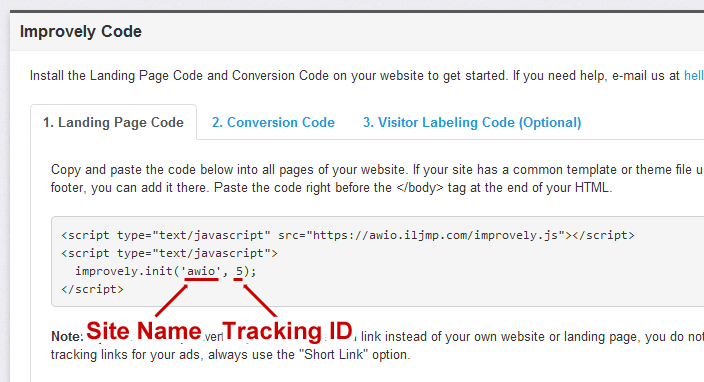
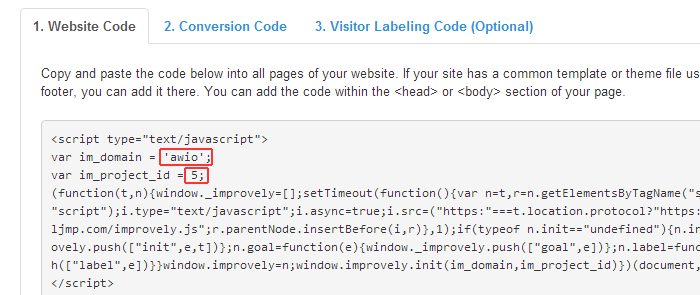
Update
git-svn-id: https://plugins.svn.wordpress.org/improvely-for-woocommerce/trunk@655952 b8457f37-d9ea-0310-8a92-e5e31aec5664

Changed region(s): [[0.06, 0.3966, 1.0, 0.9763], [0.0, 0.0, 1.0, 1.0]]

diff --git a/improvely.php b/improvely.php
@@ -5,20 +5,16 @@
 Plugin Name:  Improvely for WooCommerce
 Plugin URI:   http://www.improvely.com
 Description:  Integrates <a href="http://www.improvely.com">Improvely</a> with your WooCommerce store &mdash; allowing you to identify the exact traffic source of every purchase, split test ads, monitor your PPC ads for fraudulent clicks and more.
-Version:      1.0
+Version:      1.5
 Author:       Improvely
 Author URI:   http://www.improvely.com
 
 **************************************************************************/
 
-if ( in_array( 'woocommerce/woocommerce.php', apply_filters( 'active_plugins', get_option( 'active_plugins' ) ) ) ) {
-
-	add_action('wp_head', 'improvely_init');
-	add_action('woocommerce_thankyou', 'improvely_goal');
-	add_action('admin_menu', 'improvely_pages');
-	add_action('admin_init', 'improvely_admin_init');
-
-}
+add_action('wp_head', 'improvely_init');
+add_action('woocommerce_thankyou', 'improvely_goal');
+add_action('admin_menu', 'improvely_pages');
+add_action('admin_init', 'improvely_admin_init');
 
 function improvely_admin_init() {
 
@@ -42,18 +38,21 @@ function improvely_pages() {
 }
 
 function improvely_warning() {
-	echo "<div id='improvely-warning' class='updated fade'><p><strong>Improvely is almost ready.</strong> ".sprintf('<a href="%1$s">Click here to configure the plugin</a>.', "admin.php?page=improvely-config")."</p></div>";
+	echo "<div id='improvely-warning' class='updated fade'><p><strong>Improvely for WooCommerce is almost ready.</strong> ".sprintf('<a href="%1$s">Click here to configure the plugin</a>.', "admin.php?page=improvely-config")."</p></div>";
 }
 
 function improvely_init() {
 	$improvely_subdomain = get_option('improvely_subdomain');
 	$improvely_id = get_option('improvely_id');
+	if (!empty($improvely_subdomain)) {
 ?>
-<script type="text/javascript" src="https://<?php echo $improvely_subdomain; ?>.iljmp.com/improvely.js"></script>
 <script type="text/javascript">
-  improvely.init('<?php echo $improvely_subdomain; ?>', <?php echo $improvely_id; ?>);
+var im_domain = '<?php echo $improvely_subdomain; ?>';
+var im_project_id = <?php echo $improvely_id; ?>;
+(function(t,n){window._improvely=[];setTimeout(function(){var n=t,r=n.getElementsByTagName("script")[0],i=n.createElement("script");i.type="text/javascript";i.async=true;i.src=("https:"===t.location.protocol?"https:":"http:")+"//"+im_domain+".iljmp.com/improvely.js";r.parentNode.insertBefore(i,r)},1);if(typeof n.init=="undefined"){n.init=function(e,t){window._improvely.push(["init",e,t])};n.goal=function(e){window._improvely.push(["goal",e])};n.label=function(e){window._improvely.push(["label",e])}}window.improvely=n;window.improvely.init(im_domain,im_project_id)})(document,window.improvely||[]);
 </script>
 <?php 
+	}
 }
 
 function improvely_goal($order_id) {
@@ -61,14 +60,12 @@ function improvely_goal($order_id) {
 	$improvely_id = get_option('improvely_id');	
 	$order = new WC_Order($order_id);
 	?>
-<script type="text/javascript" src="https://<?php echo $improvely_subdomain; ?>.iljmp.com/improvely.js"></script>
 <script type="text/javascript">
-  improvely.init('<?php echo $improvely_subdomain; ?>', <?php echo $improvely_id; ?>);
-  improvely.goal({
-    type: 'sale',
-    amount: <?php echo $order->order_total; ?>,
-    reference: '<?php echo $order_id; ?>'
-  });
+improvely.goal({
+  type: 'sale',
+  amount: <?php echo $order->order_total; ?>,
+  reference: '<?php echo $order_id; ?>'
+});
 </script>
 <noscript>
 <img src="https://<?php echo $improvely_subdomain; ?>.iljmp.com/track/conversion?product=<?php echo $improvely_id; ?>&type=sale&amount=<?php echo $order->order_total; ?>&reference=<?php echo $order_id; ?>" width="1" height="1" />
@@ -126,47 +123,81 @@ function improvely_config() {
 
     <h2>Improvely Settings</h2>
 
-    <form method="post" action="admin.php?page=improvely-config">
+    <div style="width: 772px">		
 
-	<?php if (!empty($improvely_subdomain) && !empty($improvely_id)): ?>
-		<div id="message" class="updated fade"><p><strong><?php _e('Your settings have been saved. Improvely is now tracking the visits and purchases on your website.') ?></strong></p></div>
-	<?php else: ?>
-		<div style="font-size: 15px; line-height: 2em; border: 1px solid #ccc; border-radius: 8px; background: #f5f5f5; padding: 10px 20px; width: 706px">
+		<div style="background: #eee">
+			<img src="<?php echo plugins_url( 'banner.png' , __FILE__ ) ?>" alt="Banner" />
 
-			<p>
-				To install this plugin, you need an Improvely account. If you do not already have one, 
-				you can <a href="http://www.improvely.com/">sign up for a free 30-day trial here</a>.
+			<div style="padding: 10px; font-size: 13px; line-height: 1.5em">
+				<?php if (!empty($improvely_subdomain) && !empty($improvely_id)): ?>
+				<b>Your settings have been saved. Improvely is now tracking the visits and purchases on your website.</b>
+				<?php else: ?>
+				This plugin requires an <a href="http://www.improvely.com" target="_blank">Improvely</a>
+				account. If you do not already have an account, you can 
+				<a href="https://www.improvely.com/signup" target="_blank">sign up for a 14-day free trial</a>
+				right now. 
+				<?php endif; ?>
+			</div>
+		</div>
 
-				After creating your project in Improvely, copy the site name and the tracking ID from 
-				your Improvely Code into the boxes below to install this plugin.
-			</p>
-			<p>
-				<img src="<?php echo plugins_url( 'install.png' , __FILE__ ) ?>" alt="" style="border: 1px solid #ccc" />
-			</p>
+		<p>
+			Improvely for WooCommerce will send information about your website visits and purchases
+			to your Improvely account. You can view your reports and set up tracking links for your 
+			ads by clicking on Improvely under your Dashboard menu.
+		</p>
+
+		<div style="background: #eee">
+			<div style="background: #ccc; padding: 10px; font-weight: bold">Configuration</div>
+
+			<form method="post" action="admin.php?page=improvely-config">
+
+		    <table class="form-table" style="margin: 10px">
+		        <tr valign="top">
+		            <th scope="row" style="white-space: nowrap"><label>Improvely Site Name:</label></th>
+		            <td style="width: 100%">
+		                <input type="text" name="improvely_subdomain" value="<?php echo $improvely_subdomain; ?>" />
+		                .improvely.com
+		            </td>
+		        </tr>
+				<tr>
+					<th scope="row" style="white-space: nowrap"><label>Tracking ID:</label></th>
+					<td style="width: 100%">
+						<input type="text" name="improvely_id" value="<?php echo $improvely_id; ?>" />
+		            </td>
+			    </tr>
+			    <tr>
+			    	<td></td>
+			    	<td>
+			    		<input type="submit" value="Save Changes" class="button" />
+		    		</td>
+	    		</tr>
+			</table>
+
+			</form>
 
 		</div>
-	<?php endif; ?>
 
-    <table class="form-table">
-        <tr valign="top">
-            <th scope="row"><label>Improvely Site Name:</label></th>
-            <td>
-                <input type="text" name="improvely_subdomain" value="<?php echo $improvely_subdomain; ?>" />.improvely.com
-            </td>
-        </tr>
-		<tr>
-			<th scope="row"><label>Tracking ID:</label></th>
-			<td>
-				<input type="text" name="improvely_id" value="<?php echo $improvely_id; ?>" />
-            </td>
-	    </tr>
-	</table>
+		<div style="background: #eee; margin-top: 10px">
+			<div style="background: #ccc; padding: 10px; font-weight: bold">Where do I find my site name and project ID?</div>
+			<div style="padding: 10px">
+				Your site name is the subdomain you chose when you signed up, and where you 
+				log in to access your account. You can retrieve both your domain and project ID 
+				from the <b>Website Code</b> page in your account. You can return to the 
+				Website Code page by clicking <b>Click here if you need to retrieve your Improvely 
+				Code again</b> on the Getting Started screen, or by clicking on your project at the 
+				top left of your account and choosing <b>Project Settings</b>.
 
-	<br /><br />
+				<br /><br />
 
-	<input type="submit" value="Save Changes" class="button" />
+				<b>Example only, use the values from your own account:</b>
+		
+				<img src="<?php echo plugins_url( 'install.png' , __FILE__ ) ?>" alt="Banner" style="border: 1px solid #000" />
 
-	</form>
+			</div>
+		</div>
+
+	</div>
+
 </div>
 
 <?php } ?>
